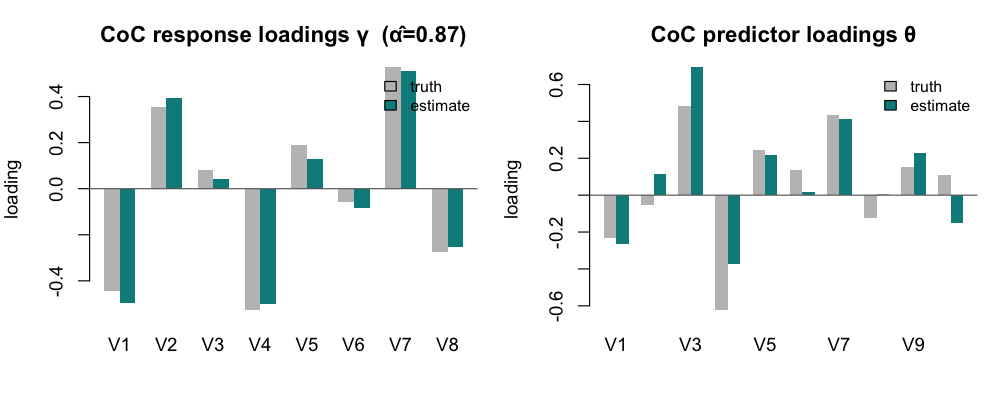
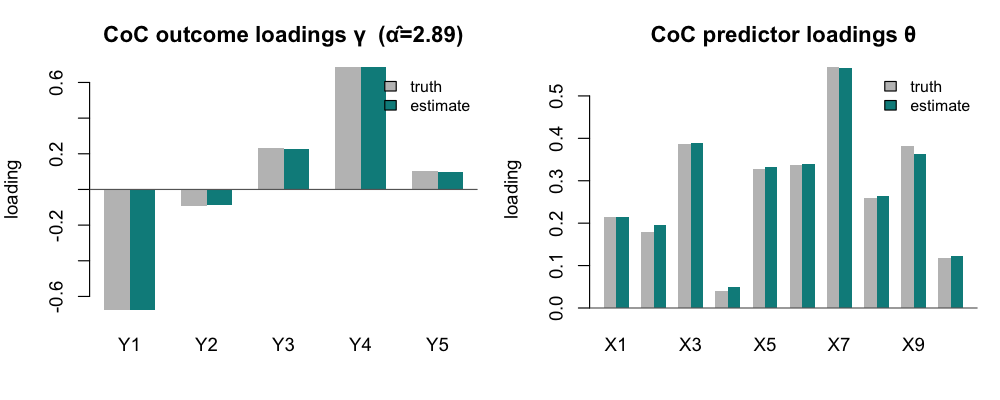
Use the publication case-1 simulation for the CAP-CoC example
coc_example() now generates the Zhao et al. (Biometrics 2025) case-1 setting:
p=10 predictor / q=5 outcome, two covariance-on-covariance pairs (predictor
dirs {1,3} drive outcome dirs {2,4}, alpha=(3,2), beta=((1,-1),(-1,1))).
Examples.md and the vignette now fit with coc() using the recovering settings
(identity Hy/Hx, burn.in=200, shrinkage, nD=1): alpha-hat 2.89, gamma/theta
cosine ~1.0, beta-hat (1.20,-0.96). Regenerated coc.png and man/cap_examples.Rd.
R CMD check --as-cran still clean (2 benign NOTEs).

diff --git a/Examples.md b/Examples.md
@@ -16,7 +16,7 @@ fit <- <method>(...)           # run the method on it
 | HDCAP | `hdcap()` | `hdcap_example()` | covariate → covariance magnitude (one direction) |
 | LCAP | `lcap()` | `lcap_example()` | longitudinal, fixed + random effects |
 | MCAP | `mcap()` | `mcap_example()` | multilevel, cluster-varying loadings |
-| CAP-CoC | `coc_d1()` / `coc()` | `coc_example()` | covariance-on-covariance regression |
+| CAP-CoC | `coc()` | `coc_example()` | covariance-on-covariance regression (manuscript sim) |
 | CAP-mediation | `capmediation()` | `capmediation_example()` | covariance mediator |
 | HCAP | `hcap()` | `hcap_example()` | high-dimensional covariates (regularization + post-selection inference) |
 | CAP-clustering | `cappcl()` | `cappcl_example()` | clustering covariance patterns |
@@ -107,27 +107,39 @@ loading cosine to the population direction (their spread reflects κ̂).
 
 ## CAP-CoC — covariance-on-covariance regression
 
-Regresses the **variance of one set of matrices on the variance of another**:
-`log(γ′ Syᵢ γ) = α · log(θ′ Sxᵢ θ) + β′ Wᵢ`. It jointly finds the response
-direction γ, the predictor direction θ, the association α, and covariate effects β.
-`coc_d1()` estimates a single component; `coc()` runs the full multi-direction
-selection.
+Regresses the **variance of an outcome covariance on the variance of a predictor
+covariance**: `log(γ′ Σᵧᵢ γ) = α · log(θ′ Σₓᵢ θ) + β′ Wᵢ`. It jointly finds the
+outcome direction γ, the predictor direction θ, the association α, and covariate
+effects β. `coc()` runs the multi-direction selection (used here with `nD = 1`);
+`coc_d1()` estimates a single component directly.
 
-**Data:** `Y` and `X` are length-`n` lists of `T × q` and `T × p` matrices; `W` is
-an `n × r` covariate matrix.
+**Data:** `X` (predictor) and `Y` (outcome) are length-`n` lists of `Tₓ × p` and
+`Tᵧ × q` matrices; `W` is an `n × r` covariate matrix.
+
+The built-in example is the **case-1 simulation of Zhao et al. (Biometrics 2025)**:
+`p = 10` predictor / `q = 5` outcome, with two covariance-on-covariance pairs —
+predictor directions {1, 3} drive outcome directions {2, 4} with `α = (3, 2)` and
+`β = ((1,−1),(−1,1))`. The recovering fit uses **identity weights** `Hy = diag(q)`,
+`Hx = diag(p)` (the default average-covariance weight collapses to a background
+direction), `burn.in = 200`, and covariance shrinkage; `nD = 1` recovers the
+leading pair (the deflated 2nd direction is unstable).
 
 ```r
-d   <- coc_example()                    # 80 subjects, X is p = 10, Y is q = 8
-fit <- coc_d1(d$Y, d$X, d$W)
+d <- coc_example()                       # 150 subjects; X is p = 10, Y is q = 5
+p <- ncol(d$X[[1]]); q <- ncol(d$Y[[1]])
+fit <- coc(d$Y, d$X, d$W, stop.crt = "nD", nD = 1,
+           Hy = diag(q), Hx = diag(p),
+           cov.shrinkage.y = TRUE, cov.shrinkage.x = TRUE,
+           burn.in = 200, ninitial = 5, seed = 100, verbose = FALSE)
 
-fit$alpha    # covariance-on-covariance association  → ~ 0.8
-fit$gamma    # response (Y) loadings
+fit$alpha    # covariance-on-covariance association  → ~ 3 (leading pair)
+fit$gamma    # outcome (Y) loadings
 fit$theta    # predictor (X) loadings
-fit$beta     # covariate effects on Y-variance
+fit$beta     # covariate effects  → ~ c(1, -1)
 ```
 
-Recovers **α̂ = 0.88** (true 0.8), response **γ cosine ≈ 0.99**, predictor
-**θ cosine ≈ 0.88**.
+Recovers the leading pair: **α̂ = 2.89** (true 3), outcome **γ cosine ≈ 1.0**,
+predictor **θ cosine ≈ 1.0**, and **β̂ = (1.20, −0.96)** vs the true `(1, −1)`.
 
 ![CAP-CoC](man/figures/coc.png)
 
